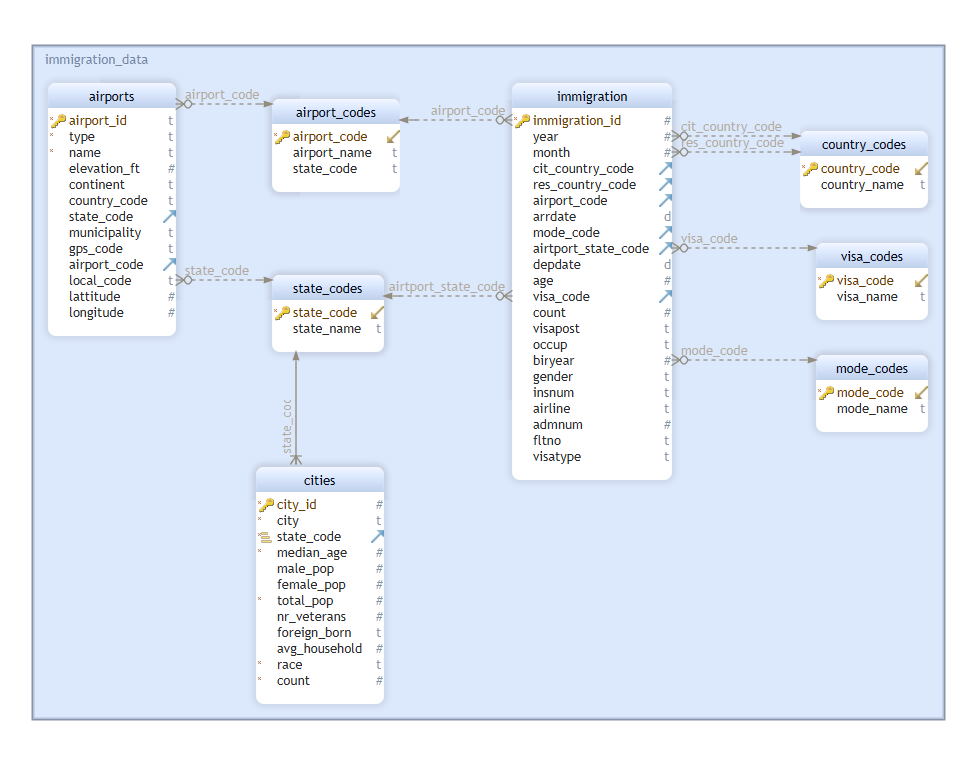
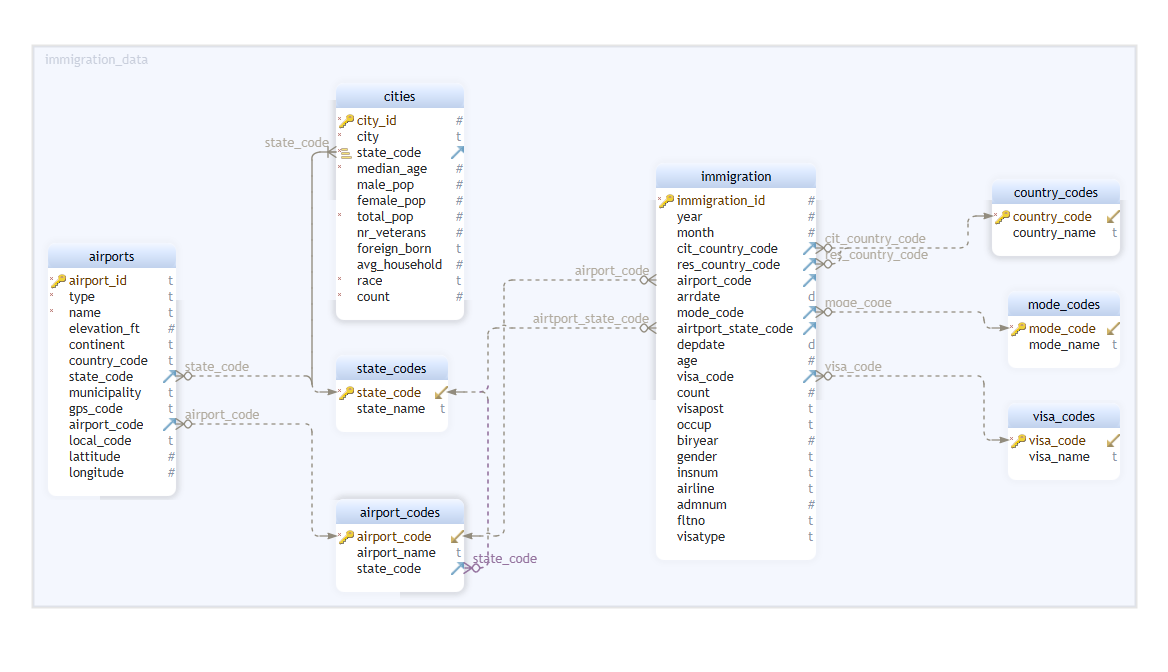
Add data dictionary to the readme and update the db schema

Changed region(s): [[0.0307, 0.0312, 0.9836, 0.9375]]

diff --git a/README.md b/README.md
@@ -36,12 +36,104 @@ Since all numeric values of CSV and SAS files are read as doubles, for every fil
 Not specifically during the cleaning phase, some columns are filtered from the immigration data as they are not required for the analysis goal.
 
 ### Data quality
-Two data quality checks are performed. One is to check if the tables are created correctly and the other one is to check if data exists in these tables indicating that the data loading is performed succesfully.
+Three data quality checks are performed. One is to check if the tables are created correctly, another one is to check if data exists in these tables indicating that the data loading is performed succesfully and the last one check the integrity constraints in the tables.
 
 ## Schema
 In the final schema the immigration table is a fact table while the others function as dimension tables. The `state_codes` table functions as the link between the immigration data and the airport and cities data. This way analysis between states based on immigration data can be performed, while airport and city data add extra information.
 
 ![DB schema](redshift.png)
+In the image above, the key icons represent primary keys, the three bars represent sort keys and the arrows represent foreign keys.
+
+### Data dictionary
+#### Immigration table
+| Column              | Description                                                |
+|---------------------|------------------------------------------------------------|
+| immigration_id      | ID                                                         |
+| year                | Year                                                       |
+| month               | Month                                                      |
+| cit_country_code    | Country of citizenship of the immigrant. Code of 3 digits. |
+| res_country_code    | Country of residency of the immigrant. Code of 3 digits.   |
+| airport_code        | Airport code in 3 chars                                    |
+| arrdate             | Arrival date                                               |
+| mode_code           | Travel mode code in 1 digit                                |
+| airtport_state_code | State where the airport is located. Code in 2 chars.       |
+| depdate             | Departure date                                             |
+| age                 | Age of the immigrant                                       |
+| visa_code           | Visa code in 1 digit                                       |
+| count               | Count, used for statistics                                 |
+| visapost            | Department of State where the visa was issued              |
+| occup               | Occupation that will be performed by the immigrant         |
+| biryear             | Birth year of the immigrant                                |
+| gender              | Gender of the immigrant                                    |
+| insnum              | INS number of the immigrant                                |
+| airline             | Airline that was used                                      |
+| admnum              | Admission number                                           |
+| fltno               | Flight number                                              |
+| visatype            | Visa type in 2 chars                                       |
+
+#### Airports table
+| Column       | Description                                       |
+|--------------|---------------------------------------------------|
+| airport_id   | ID                                                |
+| type         | Type                                              |
+| name         | Name                                              |
+| elevation_ft | Elevation in feet                                 |
+| continent    | Continent                                         |
+| country_code | Country code in 2 chars                           |
+| state_code   | State code in 2 chars                             |
+| municipality | Municipality                                      |
+| gps_code     | GPS code in 3 or 4 chars                          |
+| airport_code | IATA code in 3 chars                              |
+| local_code   | Local code in max 7 chars                         |
+| lattitude    | Latitude of the coordinates                       |
+| longitude    | Longitude of the coordinates                      |
+
+#### Cities table
+| Column        | Description                   |
+|---------------|-------------------------------|
+| city_id       | ID                            |
+| city          | Name                          |
+| state_code    | State code in 2 chars         |
+| median_age    | Median age                    |
+| male_pop      | Number of male population     |
+| female_pop    | Number of female population   |
+| total_pop     | Number of total population    |
+| nr_veterans   | Number of veterans            |
+| foreign_born  | Number of foreign born        |
+| avg_household | Average household size        |
+| race          | Race                          |
+| count         | Number of people of this race |
+
+#### State codes table
+| Column     | Description           |
+|------------|-----------------------|
+| state_code | State code in 2 chars |
+| state_name | State name            |
+
+#### Airport codes table
+| Column       | Description             |
+|--------------|-------------------------|
+| airport_code | Airport code in 3 chars |
+| airport_name | Airport name            |
+| state_code   | State code in 2 chars   |
+
+#### Country codes table
+| Column       | Description              |
+|--------------|--------------------------|
+| country_code | Country code in 3 digits |
+| country_name | Country name             |
+
+#### Visa codes table
+| Column    | Description          |
+|-----------|----------------------|
+| visa_code | Visa code in 1 digit |
+| visa_name | Visa type name       |
+
+#### Mode codes table
+| Column    | Description                 |
+|-----------|-----------------------------|
+| mode_code | Travel mode code in 1 digit |
+| mode_name | Travel mode name            |
 
 ## Scenarios
 #### *What if the data was increased by 100x?*
